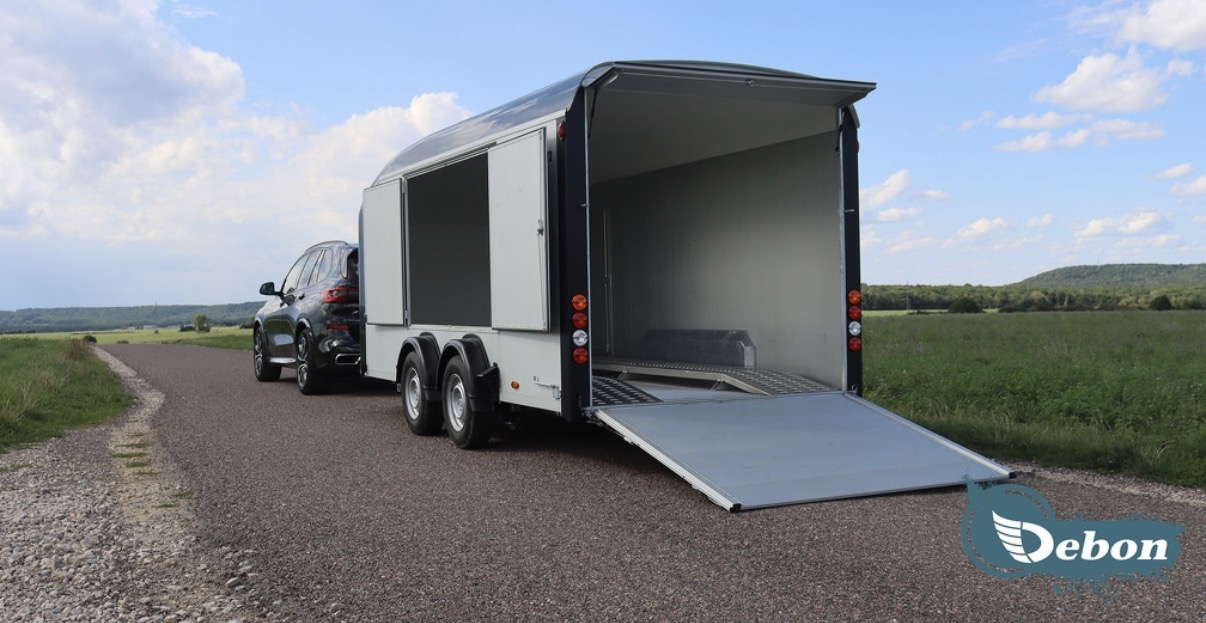
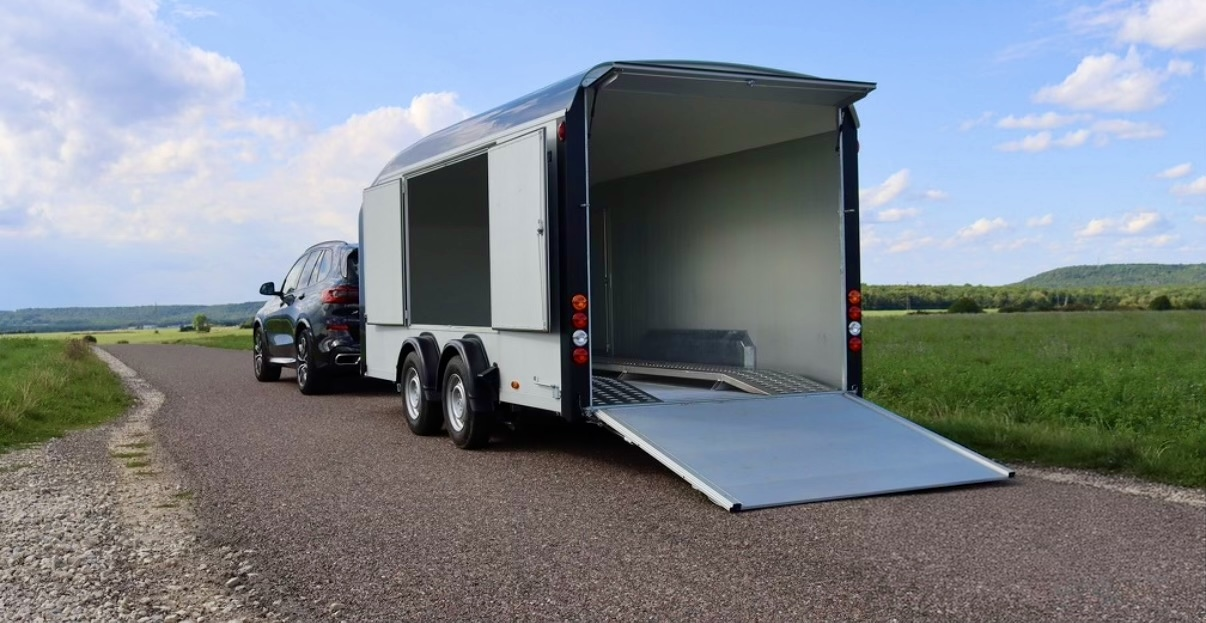
Carrello chiuso: foto senza watermark + foto auto caricata e retro chiuso

Changed region(s): [[0.7363, 0.7319, 1.0, 0.9454]]

diff --git a/trasporto-supercar-carrello-chiuso.html b/trasporto-supercar-carrello-chiuso.html
@@ -257,8 +257,8 @@
                 <p style="font-size:0.9rem;">Non sei sicuro che la tua auto ci stia? Inviaci marca e modello: verifichiamo noi le misure prima del preventivo.</p>
 
                 <figure class="page-figure">
-                    <img src="img/carrello-chiuso-debon-aperto.webp" alt="Interno del carrello chiuso Debon per trasporto auto di lusso in Ticino e Svizzera" loading="lazy" width="1206" height="634">
-                    <figcaption>Vano interno coperto con pianale in alluminio. Foto: Debon.</figcaption>
+                    <img src="img/carrello-chiuso-auto-caricata.webp" alt="Auto d'epoca caricata nel carrello chiuso Debon C900 - trasporto auto da collezione Ticino Svizzera" loading="lazy" width="1206" height="658">
+                    <figcaption>Un'auto d'epoca caricata nel carrello: viaggia completamente al coperto, fissata sul pianale in alluminio. Foto: Debon.</figcaption>
                 </figure>
 
                 <h2>Quali auto trasportiamo nel carrello chiuso</h2>
@@ -279,6 +279,10 @@
         <!-- How it works -->
         <section class="section section-alt">
             <div class="container page-content">
+                <figure class="page-figure">
+                    <img src="img/carrello-chiuso-debon-retro.webp" alt="Carrello chiuso Debon C900 in viaggio: trasporto discreto di supercar e auto di lusso in Svizzera" loading="lazy" width="1206" height="634">
+                    <figcaption>In viaggio il carrello è completamente chiuso: nessuno vede cosa trasportiamo. Foto: Debon.</figcaption>
+                </figure>
                 <h2>Come funziona</h2>
                 <ul>
                     <li><strong>Richiesta preventivo:</strong> scrivici su WhatsApp modello dell'auto, luogo di ritiro, destinazione e data desiderata. Il preventivo è gratuito e senza impegno.</li>
